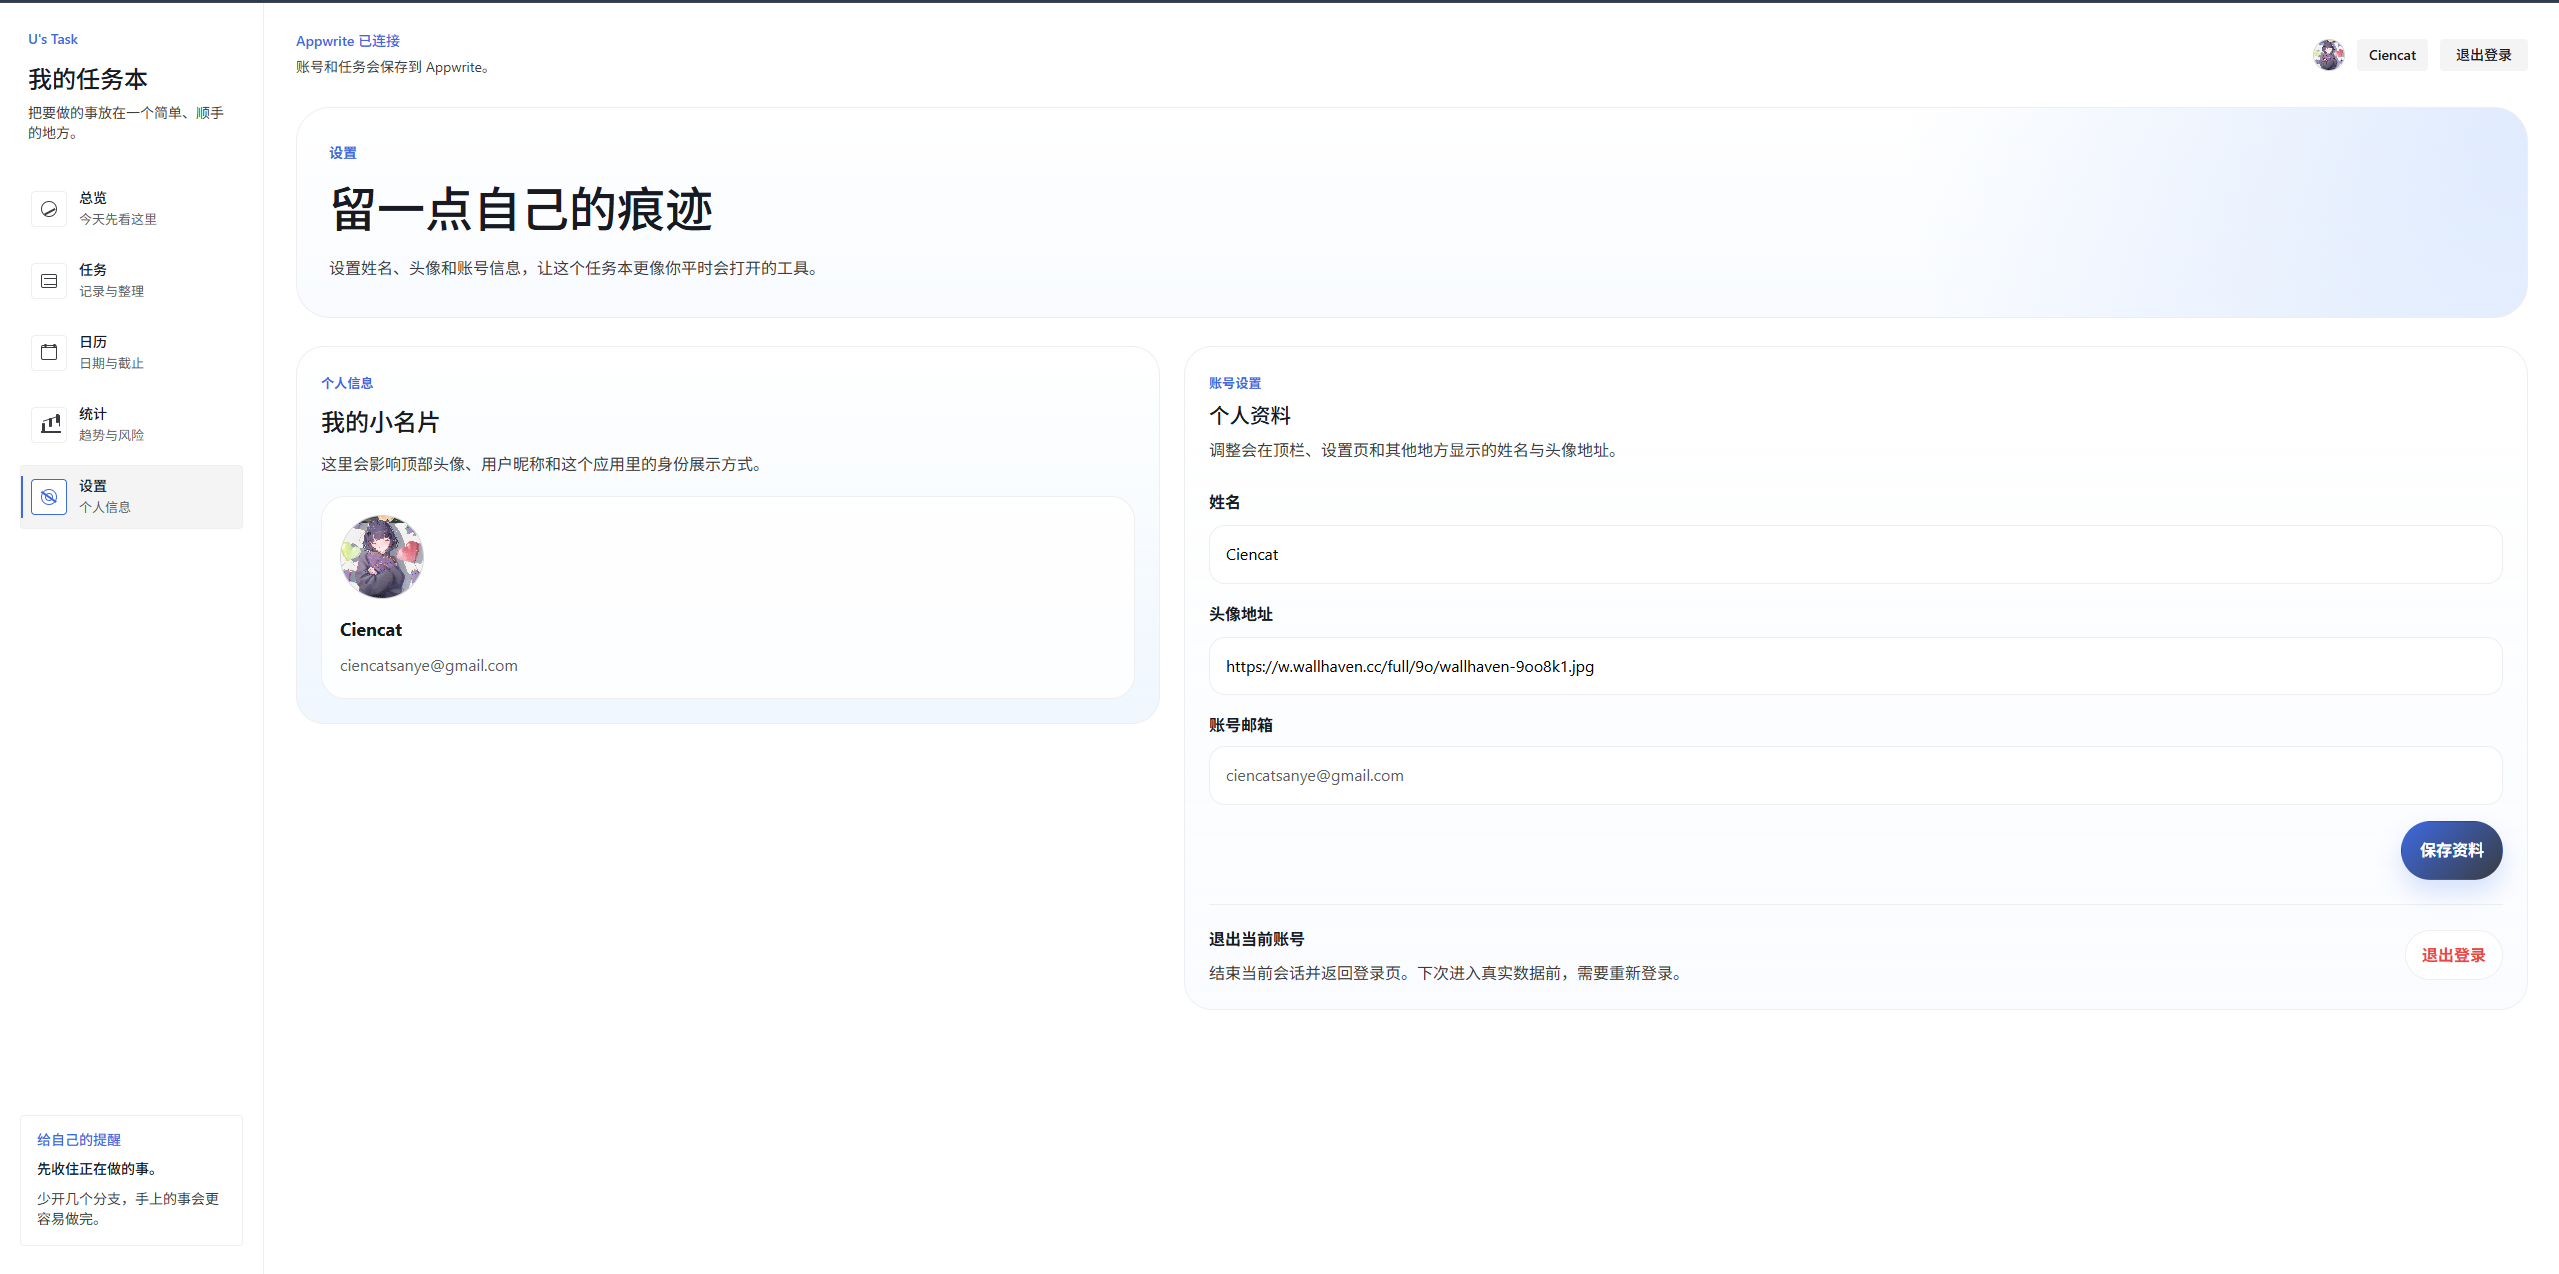
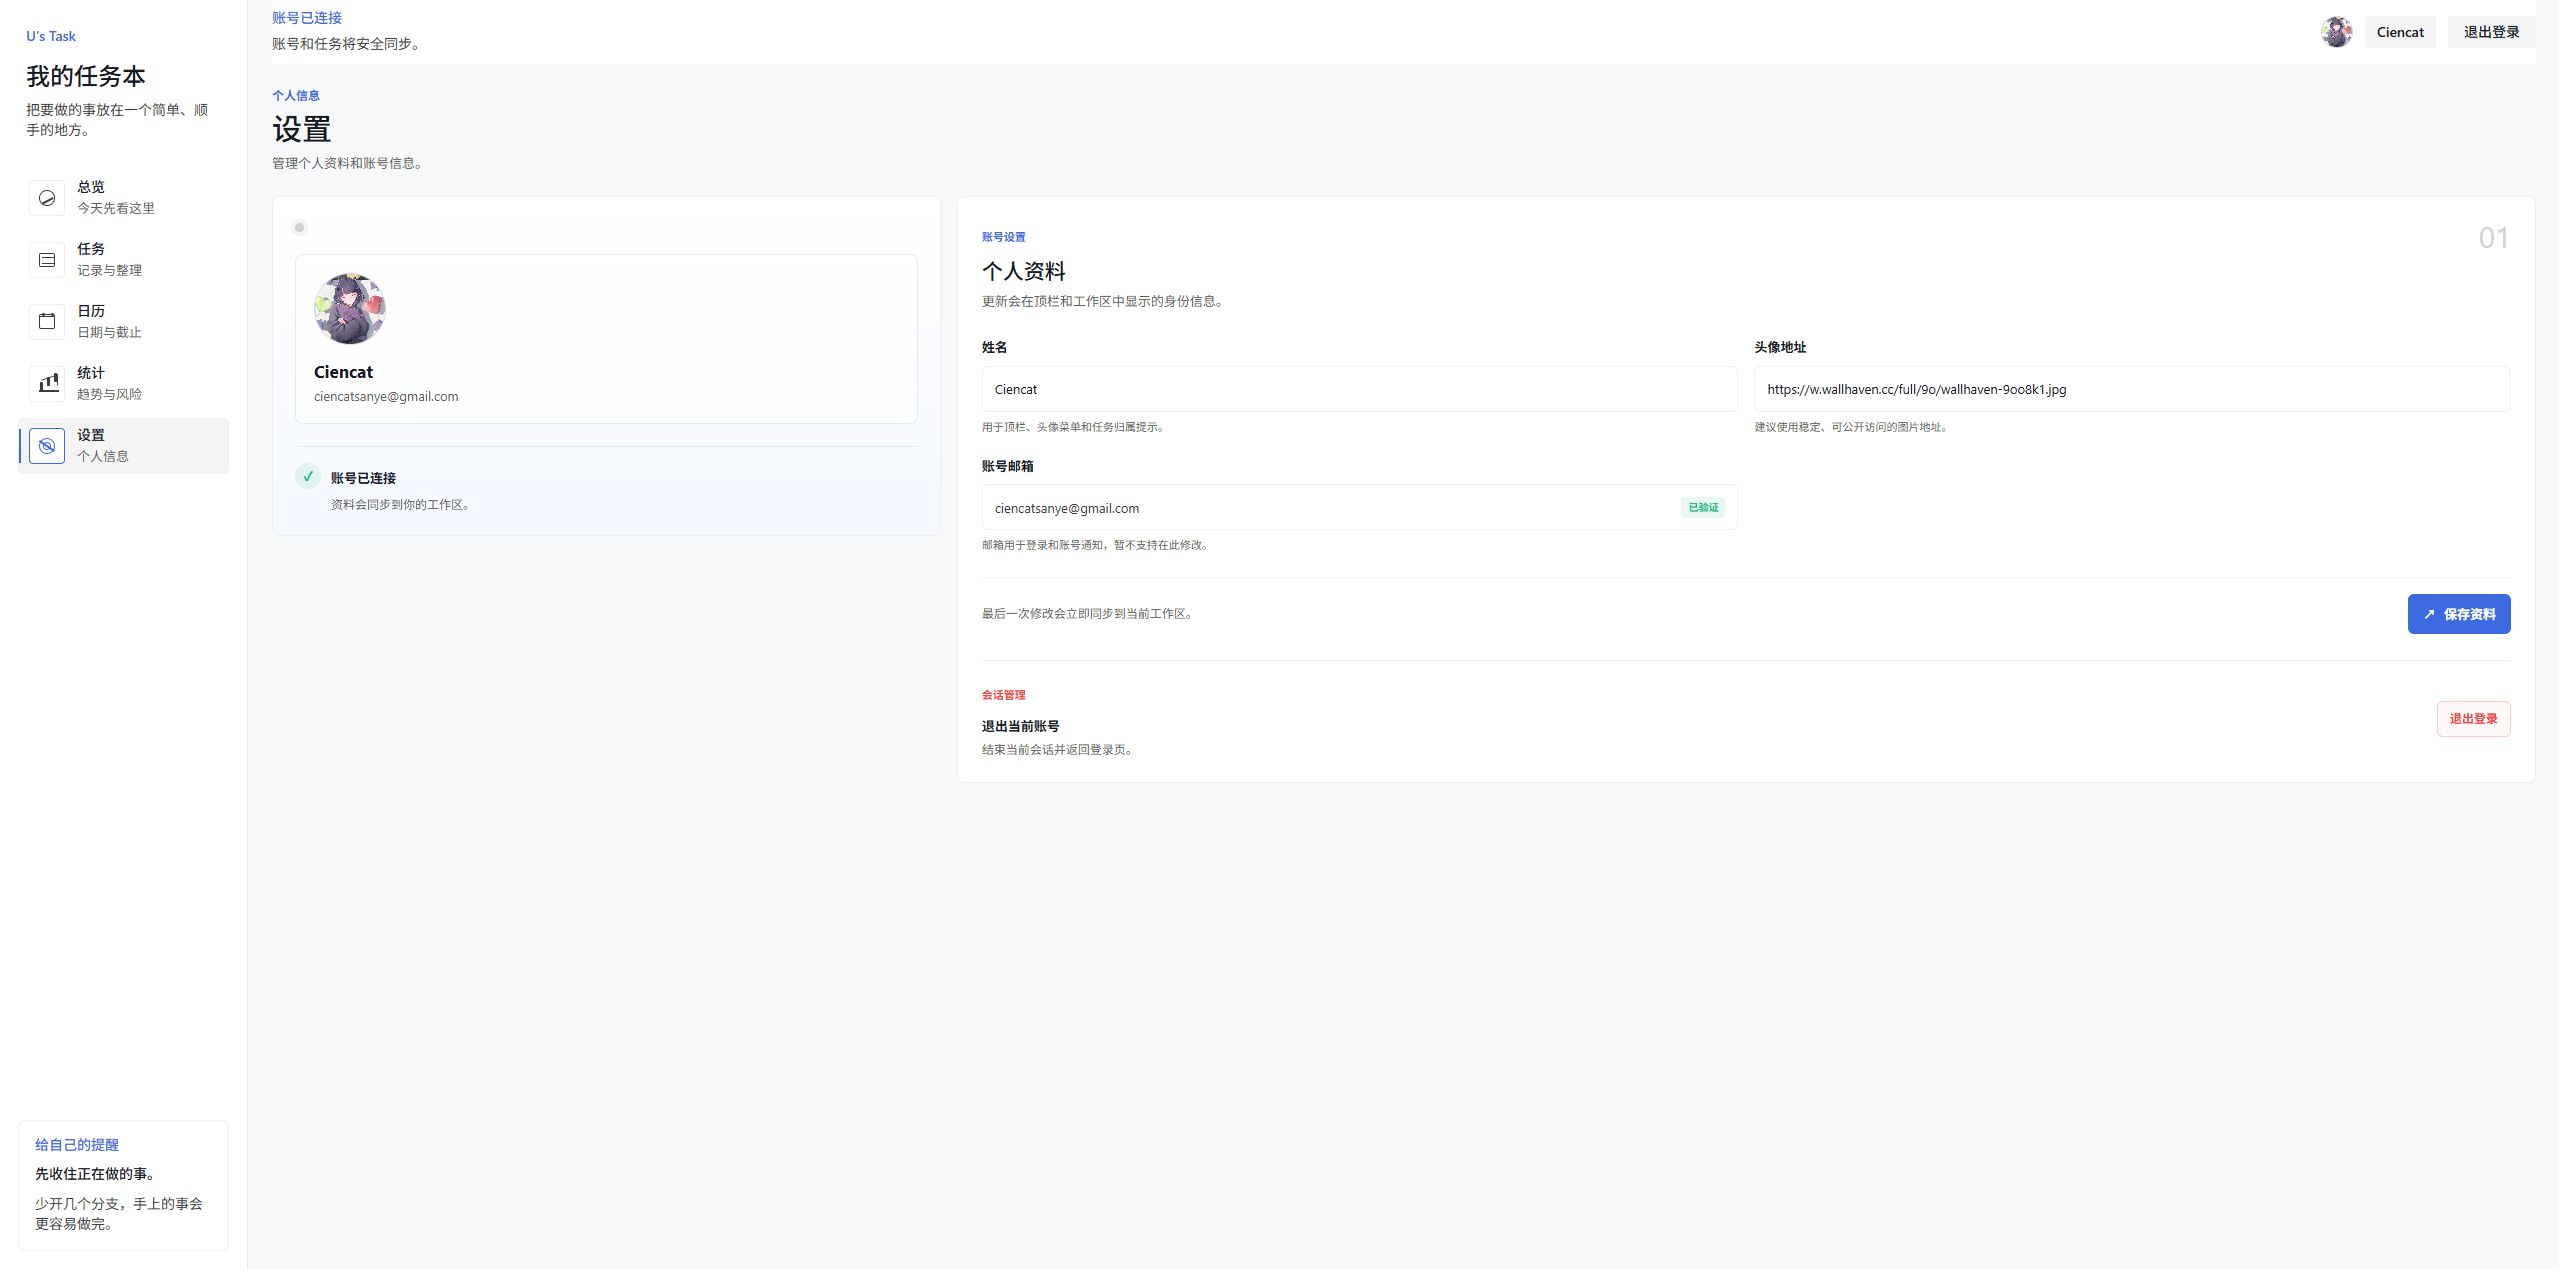
feat(CI): 实现两层自动测试
Vitest：保证业务函数和组件行为正确。
Playwright Mock E2E：保证关键页面流程可以在真实浏览器中完成。

diff --git a/playwright.config.ts b/playwright.config.ts
@@ -13,7 +13,7 @@ export default defineConfig({
     screenshot: "only-on-failure",
   },
   webServer: {
-    command: "npm.cmd run dev",
+    command: "pnpm dev",
     url: "http://127.0.0.1:3000",
     reuseExistingServer: !process.env.CI,
     timeout: 120_000,
